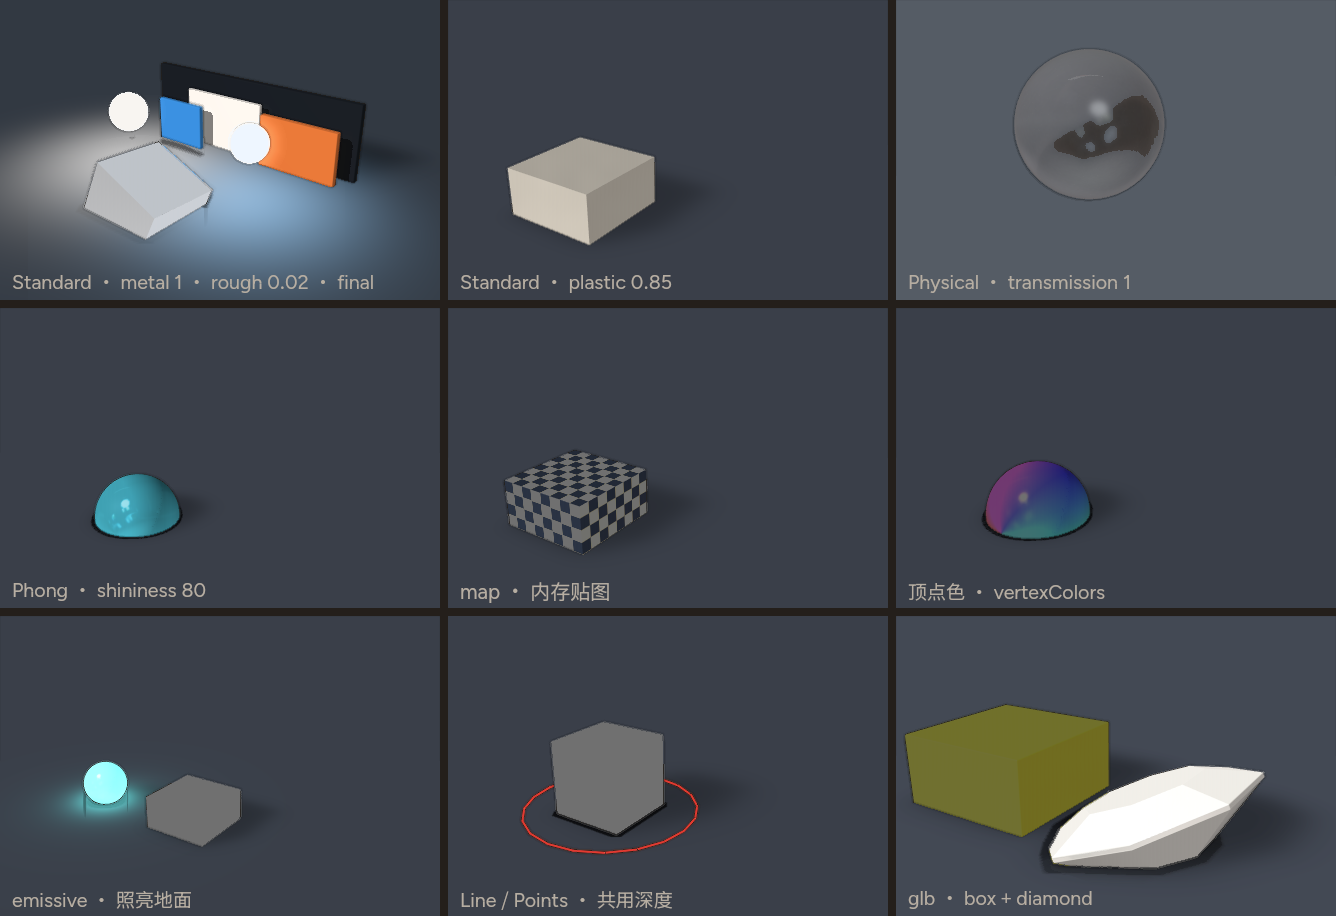
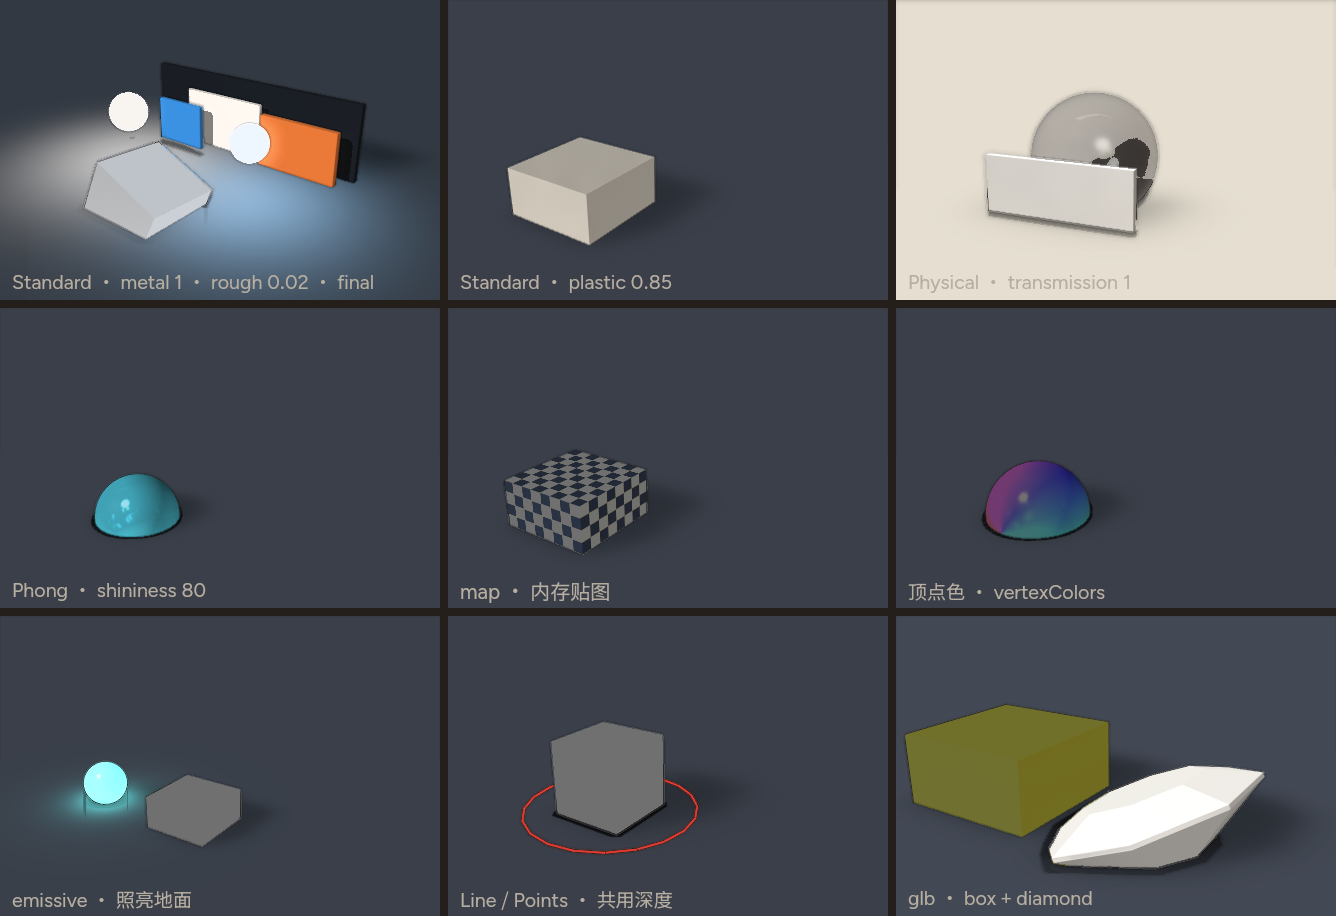
tip brightbooth: bright Physical booth + denser materials glass orb
Stop transmission from refracting the dark canvas into a black blotch.
Enlarge the materials left glass sphere; leave still plate untouched.

Changed region(s): [[0.6445, 0.0, 1.0, 0.3362]]

diff --git a/docs/gallery/3d/model/physical-glass.tsx b/docs/gallery/3d/model/physical-glass.tsx
@@ -2,55 +2,61 @@
 import { layer } from 'flexlayer'
 import * as THREE from 'three'
 
-// Glassclean: modelfill A model 6.8 — transmission sphere full of black
-// reflection blotches (closer crop made them worse). Frost the shell, brighten
-// the card, soften stripes, and ease the camera so refraction stays readable.
+// Brightbooth: glassclean A/B — transmission sphere showed a large opaque
+// black blotch (dark canvas/ground refracted through). Build a bright booth
+// so every ray through the sphere hits cream, not #241f1b.
 const glass = new THREE.Mesh(
   new THREE.SphereGeometry(0.55, 64, 48),
   new THREE.MeshPhysicalMaterial({
     color: '#ffffff',
     transmission: 1,
-    roughness: 0.22,
-    ior: 1.4,
+    roughness: 0.12,
+    ior: 1.45,
     metalness: 0,
-    thickness: 0.28,
-    attenuationColor: '#f5fffb',
-    attenuationDistance: 0.9,
+    thickness: 0.35,
+    attenuationColor: '#ffffff',
+    attenuationDistance: 1.2,
   }),
 )
-glass.position.set(0, 0.70, 0.62)
+glass.position.set(0, 0.72, 0.35)
 function stripe(color: string, x: number) {
   const mesh = new THREE.Mesh(
-    new THREE.BoxGeometry(0.22, 1.1, 0.08),
-    new THREE.MeshStandardMaterial({ color, roughness: 0.65, metalness: 0 }),
+    new THREE.BoxGeometry(0.2, 1.0, 0.08),
+    new THREE.MeshStandardMaterial({ color, roughness: 0.7, metalness: 0 }),
   )
-  mesh.position.set(x, 0.66, -0.35)
+  mesh.position.set(x, 0.7, -0.15)
   return mesh
 }
-const card = new THREE.Mesh(
-  new THREE.BoxGeometry(1.55, 1.3, 0.05),
-  new THREE.MeshStandardMaterial({ color: '#f7f2ea', roughness: 0.85, metalness: 0 }),
+const back = new THREE.Mesh(
+  new THREE.BoxGeometry(1.8, 1.4, 0.08),
+  new THREE.MeshStandardMaterial({ color: '#f6f1e8', roughness: 0.9, metalness: 0 }),
 )
-card.position.set(0, 0.66, -0.40)
+back.position.set(0, 0.9, -0.55)
+const floorCard = new THREE.Mesh(
+  new THREE.BoxGeometry(1.6, 0.08, 1.0),
+  new THREE.MeshStandardMaterial({ color: '#efe8df', roughness: 0.85, metalness: 0 }),
+)
+floorCard.position.set(0, 0.04, 0.1)
 
 export default layer.create(
   <layer width={440} height={300} background="#241f1b">
     <layer
       width={440}
       height={300}
-      camera="fov 30, orbit 26 16, distance 720, at 220 178 0"
+      camera="fov 28, orbit 22 14, distance 820, at 220 185 0"
       light="world"
       quality="final"
     >
-      <light type="hemisphere" intensity="0.55" color="#f0f4f8" ground-color="#3a4048" />
-      <light type="directional" intensity="0.55" color="#ffffff" x="-140" y="-360" z="520" target="0 0 0" />
-      <ground y={220} rotateX={90} fill="#4a5058" shadow-blur={120} shadow-opacity={0.28} />
+      <light type="hemisphere" intensity="0.7" color="#ffffff" ground-color="#d8d0c4" />
+      <light type="directional" intensity="0.5" color="#ffffff" x="-100" y="-300" z="500" target="0 0 0" />
+      <ground y={220} rotateX={90} fill="#c8c2b6" shadow-blur={100} shadow-opacity={0.22} />
       <layer x={28} y={220} width={400} height={190} origin="200 0" rotateX={90} preserve-3d>
-        <model object={card} unit={110} x={200} y={190} />
-        <model object={stripe('#e09088', -0.38)} unit={110} x={200} y={190} />
-        <model object={stripe('#f4f0e8', -0.1)} unit={110} x={200} y={190} />
-        <model object={stripe('#7aa0c8', 0.18)} unit={110} x={200} y={190} />
-        <model object={glass} unit={152} x={200} y={190} material="glass 0.2" />
+        <model object={back} unit={110} x={200} y={190} />
+        <model object={floorCard} unit={110} x={200} y={190} />
+        <model object={stripe('#e8a090', -0.35)} unit={110} x={200} y={190} />
+        <model object={stripe('#f4f0e8', -0.08)} unit={110} x={200} y={190} />
+        <model object={stripe('#90b0d0', 0.18)} unit={110} x={200} y={190} />
+        <model object={glass} unit={140} x={200} y={190} material="glass 0.1" />
       </layer>
     </layer>
     <layer x={12} y={272}>

diff --git a/scripts/gallery-3d.ts b/scripts/gallery-3d.ts
@@ -132,18 +132,17 @@ const FINISHES: Finish[] = [
     side: 'fill="#9aa3ab" material="brushed"',
   },
   {
-    // Twosphere: glassrest B materials 6.5 — extruded mint box always a
-    // faceted teal slab under retint. Left subject is a 2nd glass sphere
-    // (round = transmit); id=sphere stays for SSIM stripes.
+    // Brightbooth: glassclean B materials 6.5 on same twosphere PNG (variance).
+    // Larger denser left glass orb so it reads as one solid, not slivers.
     label: 'glass 0.06',
-    box: 'fill="#b8e8dcc8" material="glass 0.06"',
+    box: 'fill="#9ed4c4e0" material="glass 0.06"',
     sphere: 'fill="#c4eadfd0" material="glass 0.06"',
     side: 'fill="#e0a33a"',
     stripes: true,
   },
   {
     label: 'glass 0.72',
-    box: 'fill="#7a9e96e0" material="glass 0.72"',
+    box: 'fill="#6a9088e8" material="glass 0.72"',
     sphere: 'fill="#9cb8b0e8" material="glass 0.72"',
     side: 'fill="#e0a33a"',
     stripes: true,
@@ -205,7 +204,7 @@ function cluster(finish: Finish): string {
   // retint slab. Non-glass cells keep the usual rect.
   const box = finish.stripes
     ? glassCell
-      ? `<sphere id="box" cx="88" cy="72" r="44" z="36" ${finish.box} />`
+      ? `<sphere id="box" cx="86" cy="70" r="50" z="40" ${finish.box} />`
       : `<rect id="box" x="14" y="14" width="158" height="110" depth="98" rx="16" ${finish.box} />`
     : `<rect id="box" x="28" y="30" width="120" height="86" depth="72" rx="12" ${finish.box} />`
   // Gold accent sphere (not finish.side): metal cells used to paint two
